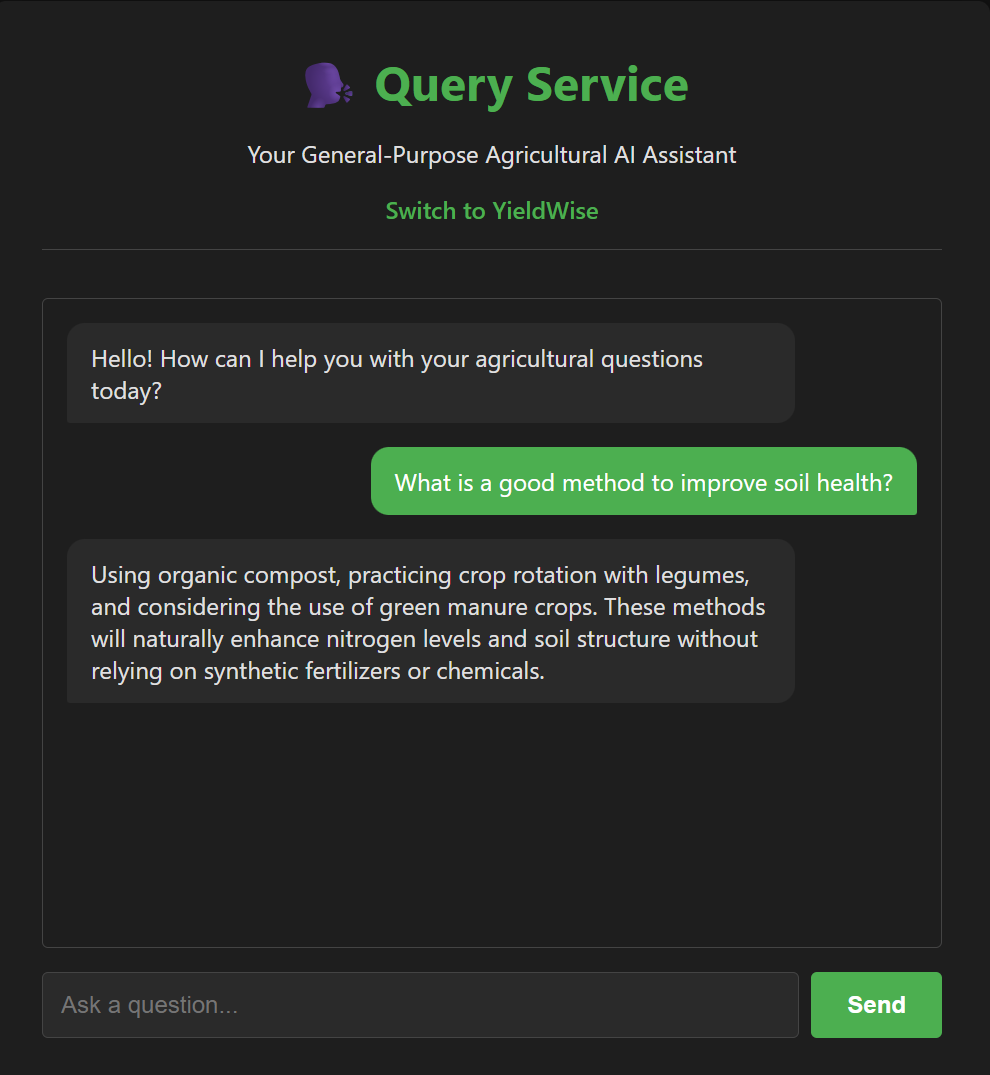
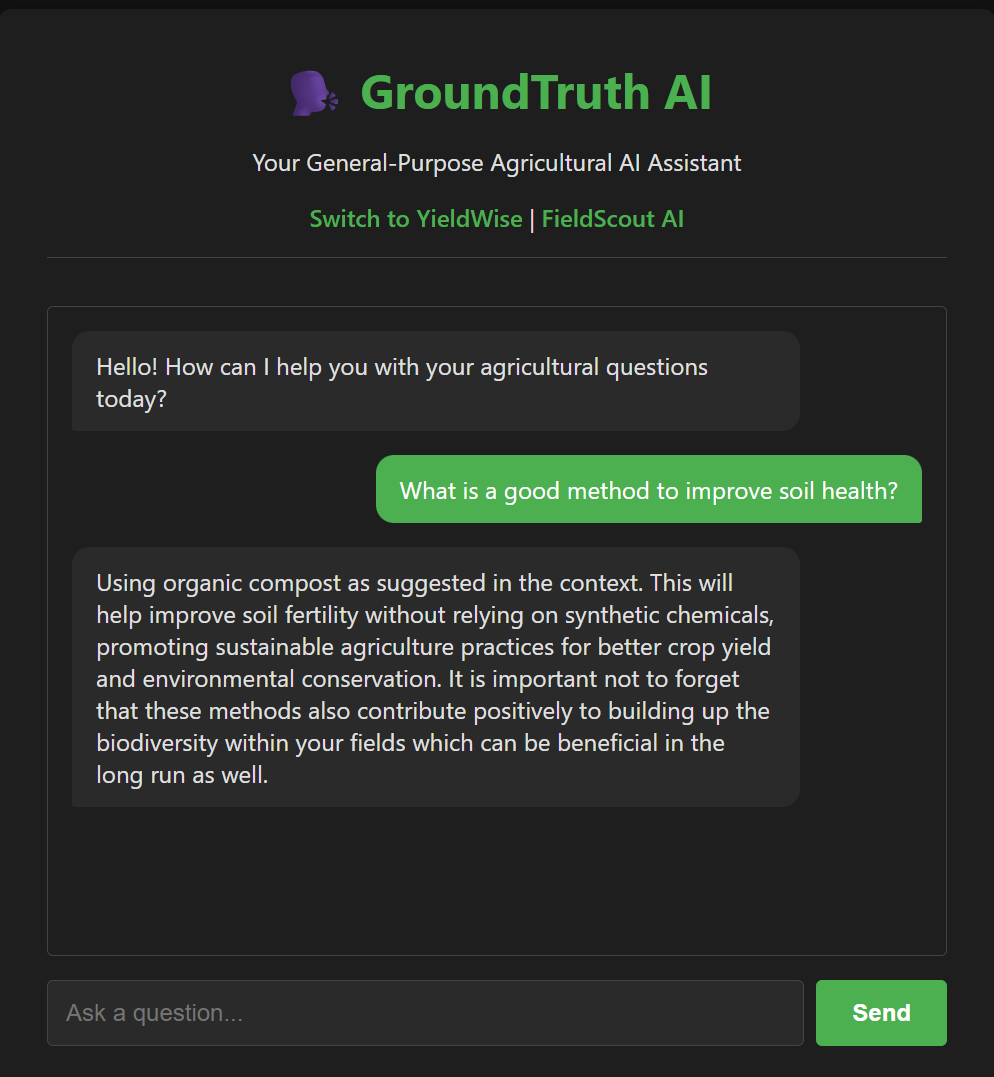
updates

diff --git a/README.md b/README.md
@@ -38,7 +38,9 @@ An AI-powered diagnostic tool that analyzes images of plant leaves to identify d
 
 Backend: http://localhost:8003
 
-UI: Accessible via the main web interface. 
+UI: Accessible via the main web interface.
+
+![Dashboard](images/dashboardgroundtruth_ai.png)  
 
 Technology Stack
 Backend: Python, FastAPI
